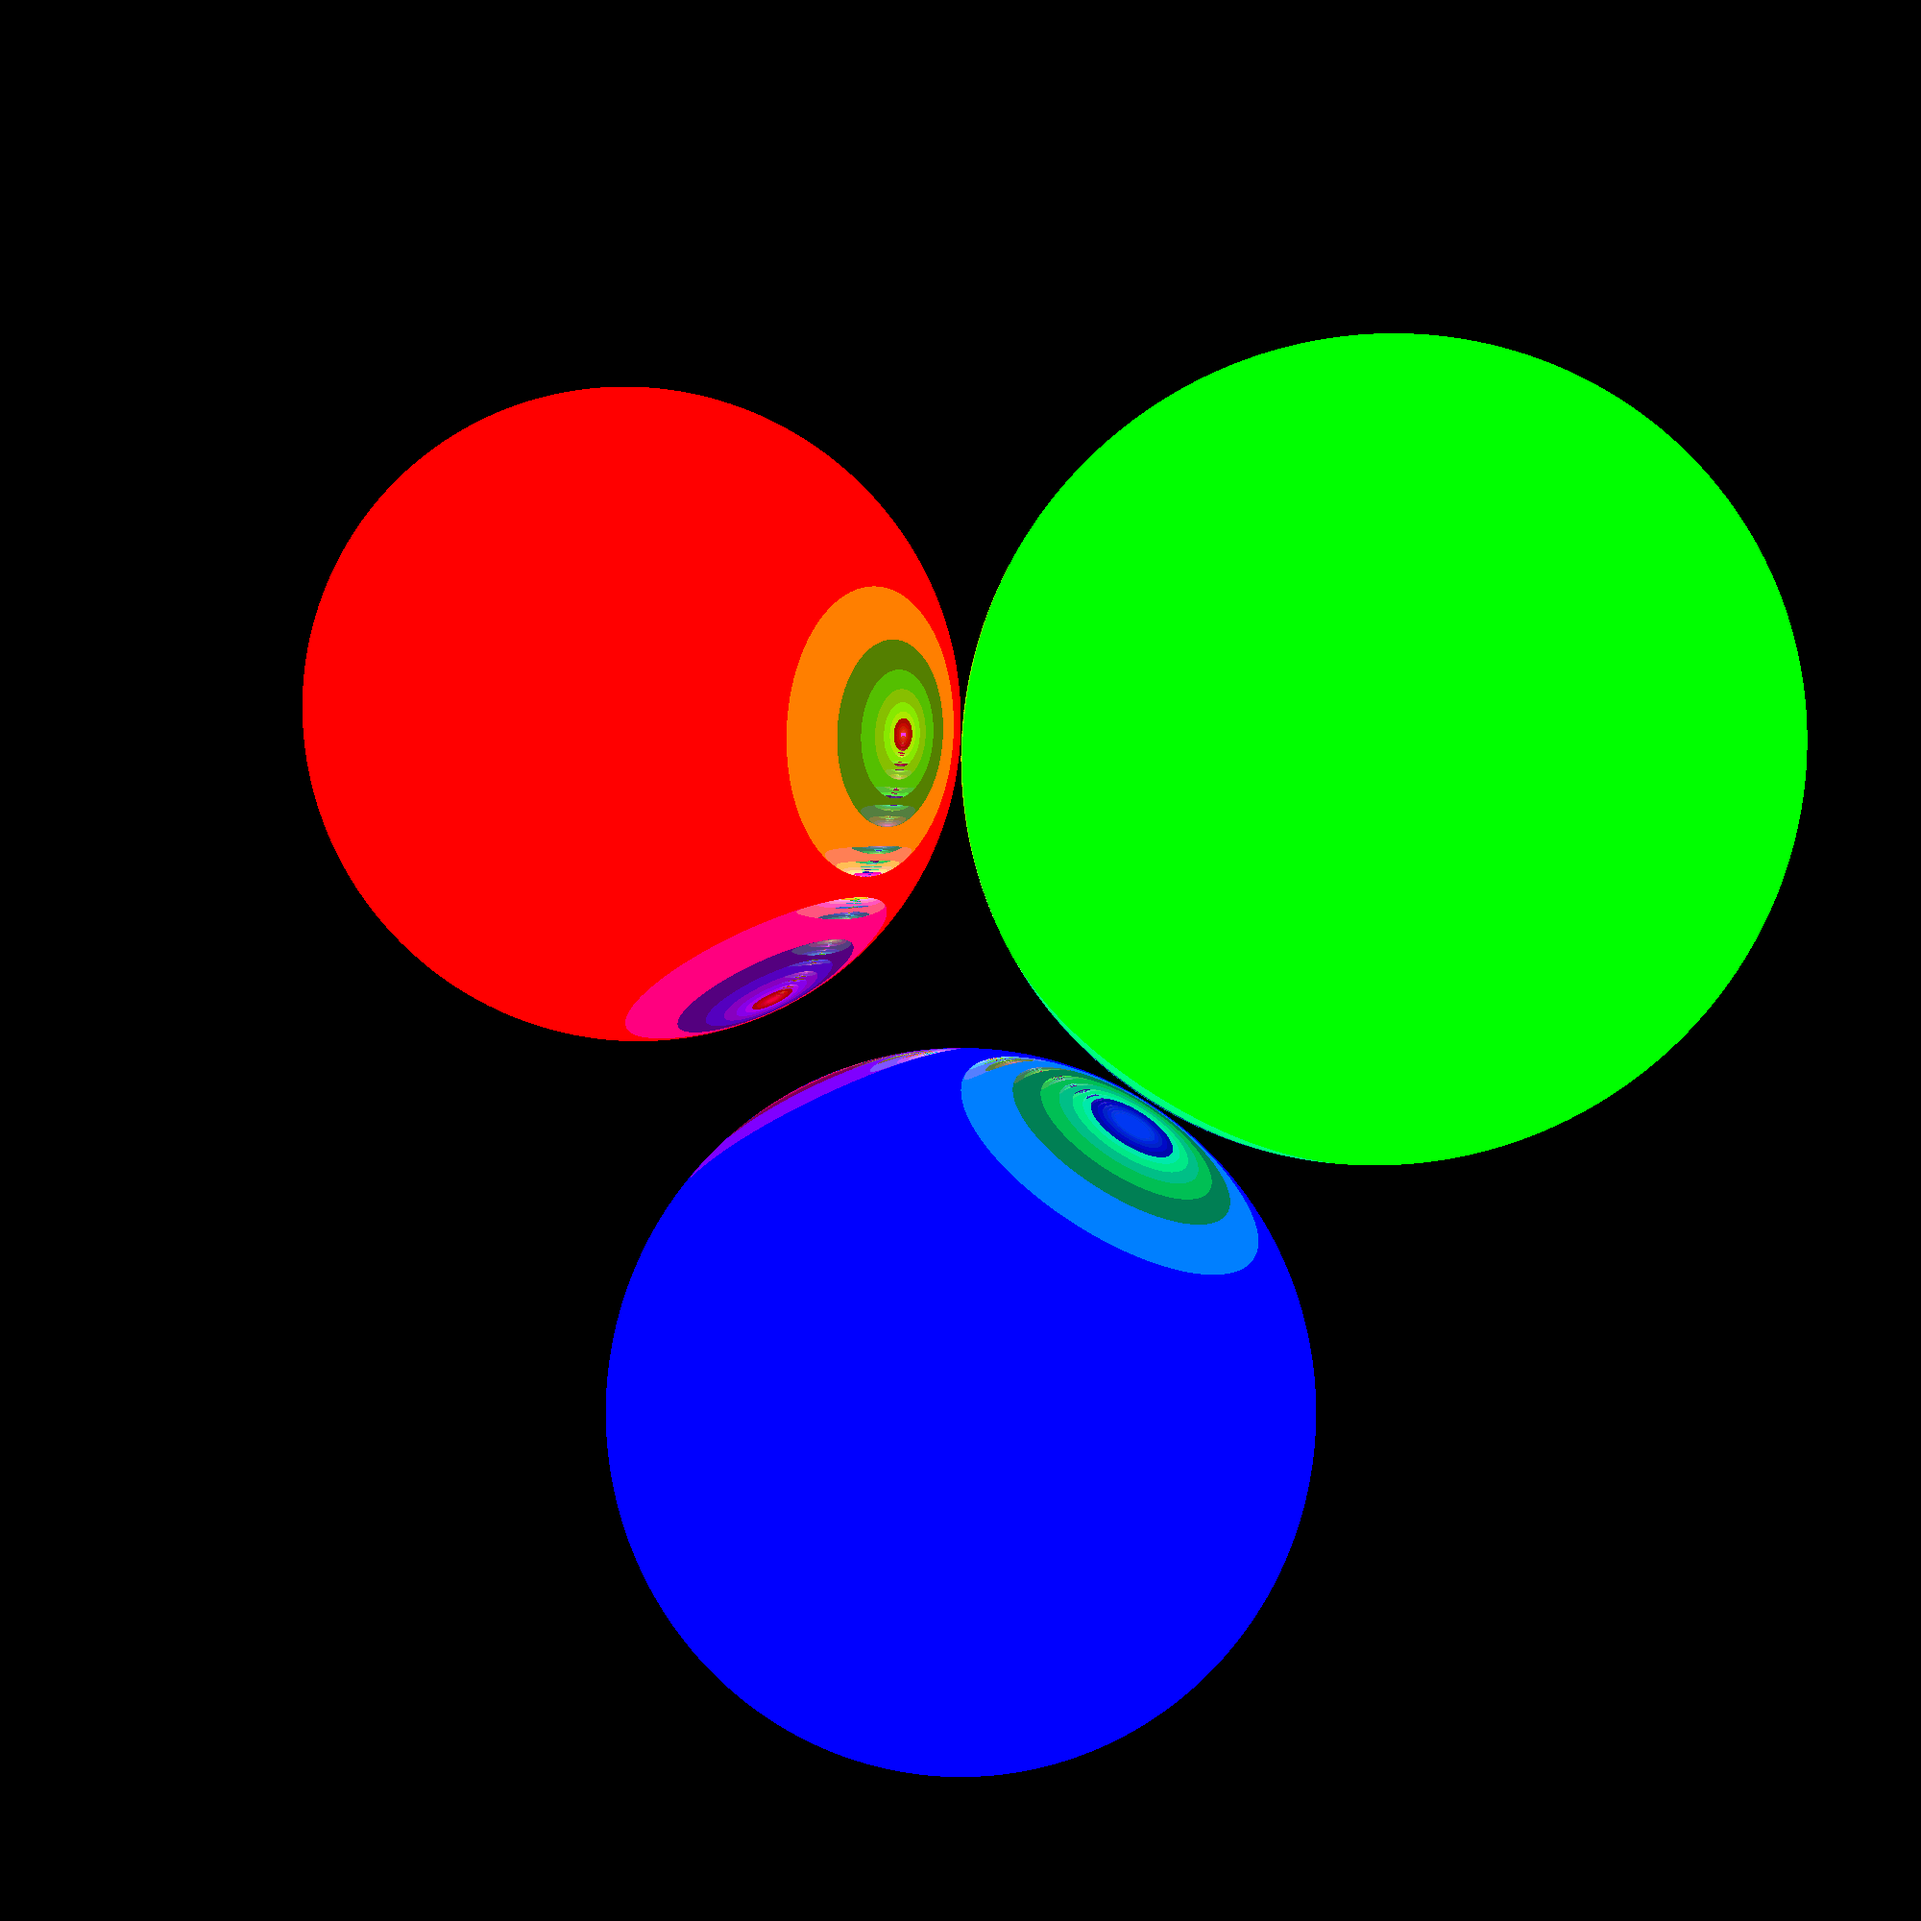
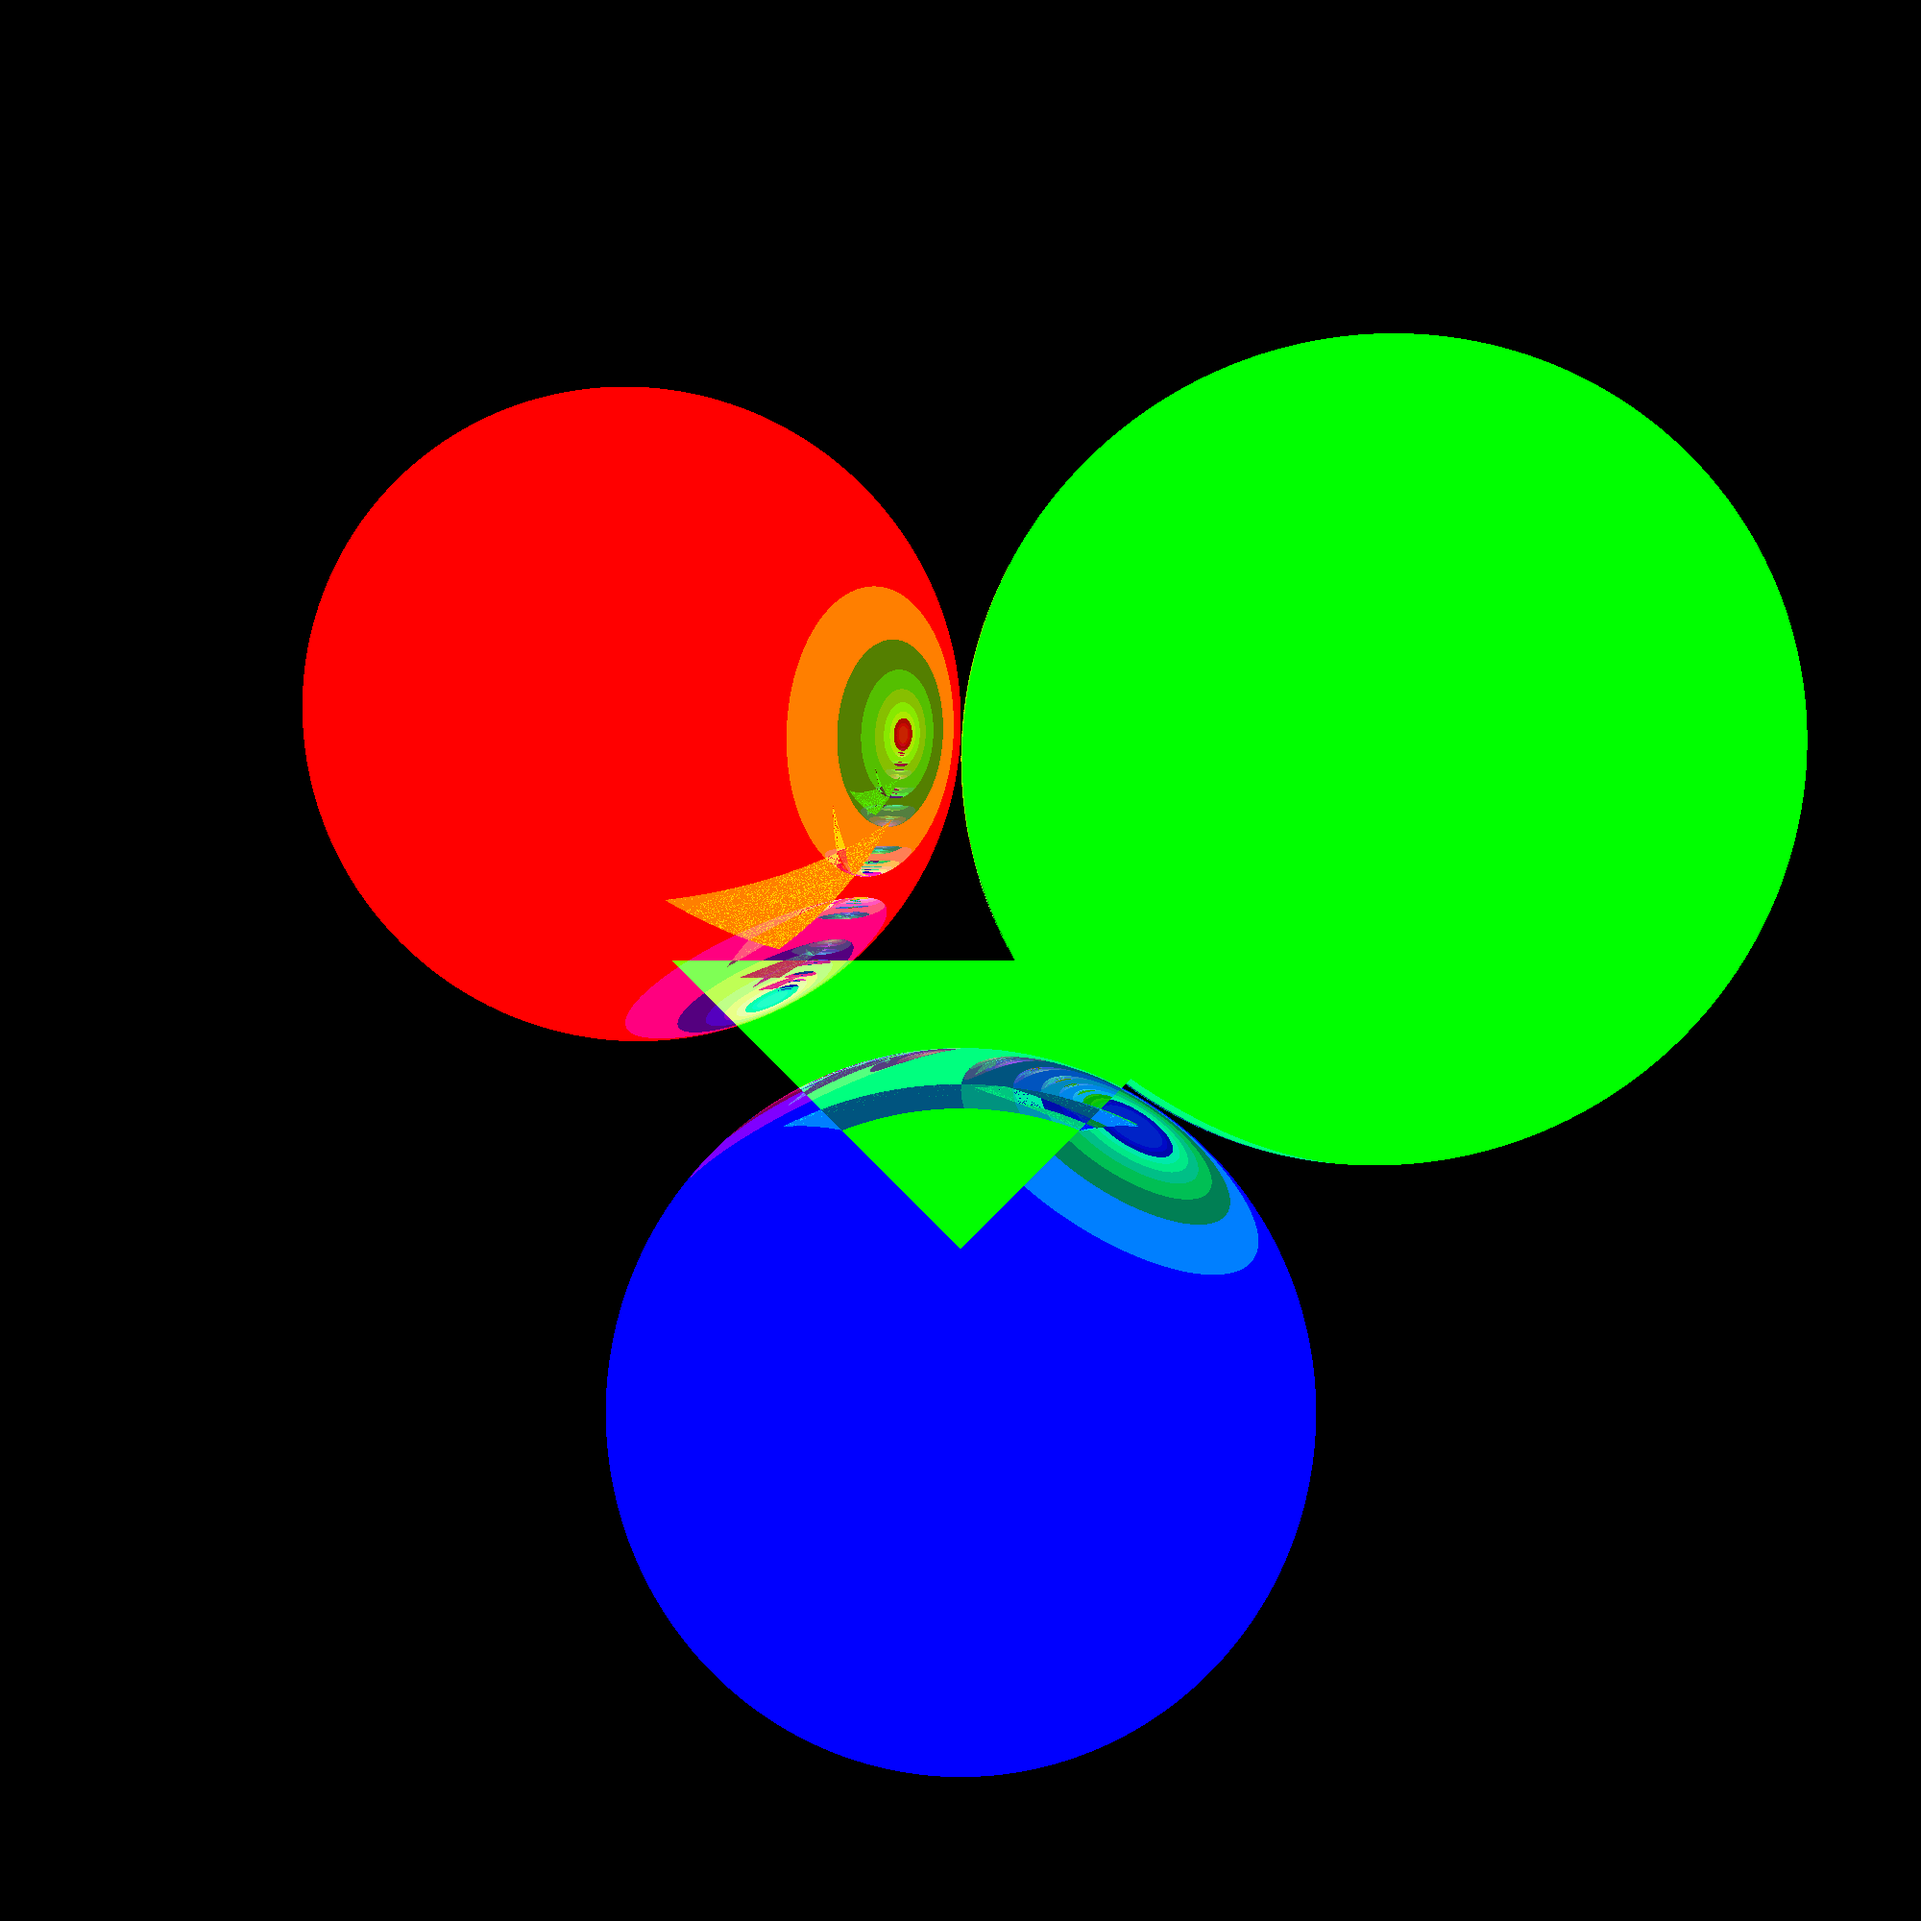
Triangles But Depth Checks are fucked

Changed region(s): [[0.341, 0.403, 0.589, 0.651]]

diff --git a/Triangle.h b/Triangle.h
@@ -1,0 +1,65 @@
+#pragma once
+#include "SceneObject.h"
+
+const float EPSILON = 0.0000001;
+
+class Triangle : public SceneObject {
+public:
+	Vec3 V0, V1, V2;
+
+	Triangle(Vec3 V0, Vec3 V1, Vec3 V2, Vec3 Col) : SceneObject(Col) {
+		this->V0 = V0; this->V1 = V1; this->V2 = V2;
+
+		this->V0.y *= -1;
+		this->V1.y *= -1;
+		this->V2.y *= -1;
+	}
+
+	bool Intersects(Ray* Ray) override {
+		return IntersectionDistance(Ray) != -1;
+	}
+
+	float IntersectionDistance(Ray* Ray) override {
+		Vec3 E1 = V1 - V0,
+			E2 = V2 - V0;
+
+		Vec3 h = Ray->Direction.cross(E2);
+
+		float a = E1.dot(h);
+
+		if (a > -EPSILON && a < EPSILON) return -1;
+
+		float f = 1.0f / a;
+		Vec3 s = Ray->Origin - V0;
+		float u = f * s.dot(h);
+
+		if (u < 0 || u>1) return -1;
+
+		Vec3 q = s.cross(E1);
+		float v = f * Ray->Direction.dot(q);
+
+		if (v < 0 || u + v > 1) return -1;
+
+		float t = f * E2.dot(q);
+		if (t > EPSILON)
+		{
+			return t;
+		}
+		else return -1;
+	}
+
+	Ray* PointNormal(Vec3 Point, Ray* oRay) override {
+		Ray* nRay = new Ray();
+
+		Vec3 V = V1 - V0, W = V2 - V0;
+
+		Vec3 N(V.y * V.z - V.z * W.y, V.z * W.x - V.x * W.z, V.x * W.y - V.y * W.x);
+
+		oRay->Direction.normalise();
+
+		nRay->Direction = oRay->Direction + 2*(oRay->Direction.mul(N).mul(V));
+		nRay->Origin = Point;
+
+		return nRay;
+	}
+};

diff --git a/RayTracing.cpp b/RayTracing.cpp
@@ -1,9 +1,12 @@
 #include <iostream>
-#include "SceneObject.h"
-#include "Sphere.h"
-#include "SceneObjectList.h"
-
 #include <thread>
+
+#include "SceneObject.h"
+
+#include "Sphere.h"
+#include "Triangle.h"
+
+#include "SceneObjectList.h"
 
 #define STB_IMAGE_IMPLEMENTATION
 #include "stb_image.h"
@@ -16,7 +19,7 @@ const int ViewWS = 2000;
 
 Vec3 CalculateRayColour(Ray* R, List* Objs, int Reflections = 1) {
 	Vec3 Color(0, 0, 0);
-	float HitDistance = -1.0f, THit;
+	float HitDistance = -1.0f, THit, rhit;
 
 	Item* I = Objs->Head;
 	SceneObject* O;
@@ -66,6 +69,7 @@ int main(int argc, char** argv)
 	Objs.Add(new Sphere(Vec3(-4, 3, 4), Vec3(255, 0, 0), 4));
 	Objs.Add(new Sphere(Vec3(4, 2, -1), Vec3(0, 255, 0), 4));
 	Objs.Add(new Sphere(Vec3(0, -5, 2), Vec3(0, 0, 255), 4));
+	Objs.Add(new Triangle(Vec3(0,-3,0), Vec3(-3,0,0), Vec3(3,0,0), Vec3(0, 255, 0)));
 
 	int i = 0;
 

diff --git a/Sphere.h b/Sphere.h
@@ -3,9 +3,15 @@
 
 class Sphere : public SceneObject {
 public:
+	Vec3 Center;
+
 	float radius = 0;
 
-	Sphere(Vec3 Cent, Vec3 Col, float r) : SceneObject(Cent, Col) {
+	Sphere(Vec3 Cent, Vec3 Col, float r) : SceneObject(Col) {
+		this->Center = Cent;
+
+		this->Center.y *= -1;
+
 		this->radius = r;
 	}
 

diff --git a/SceneObject.h b/SceneObject.h
@@ -8,14 +8,9 @@ public:
 
 class SceneObject {
 public:
-	Vec3 Center;
 	Vec3 Colour;
 
-	SceneObject(Vec3 Cent, Vec3 Col) {
-		this->Center = Cent;
-
-		this->Center.y *= -1;
-
+	SceneObject(Vec3 Col) {
 		this->Colour = Col;
 	}
 
